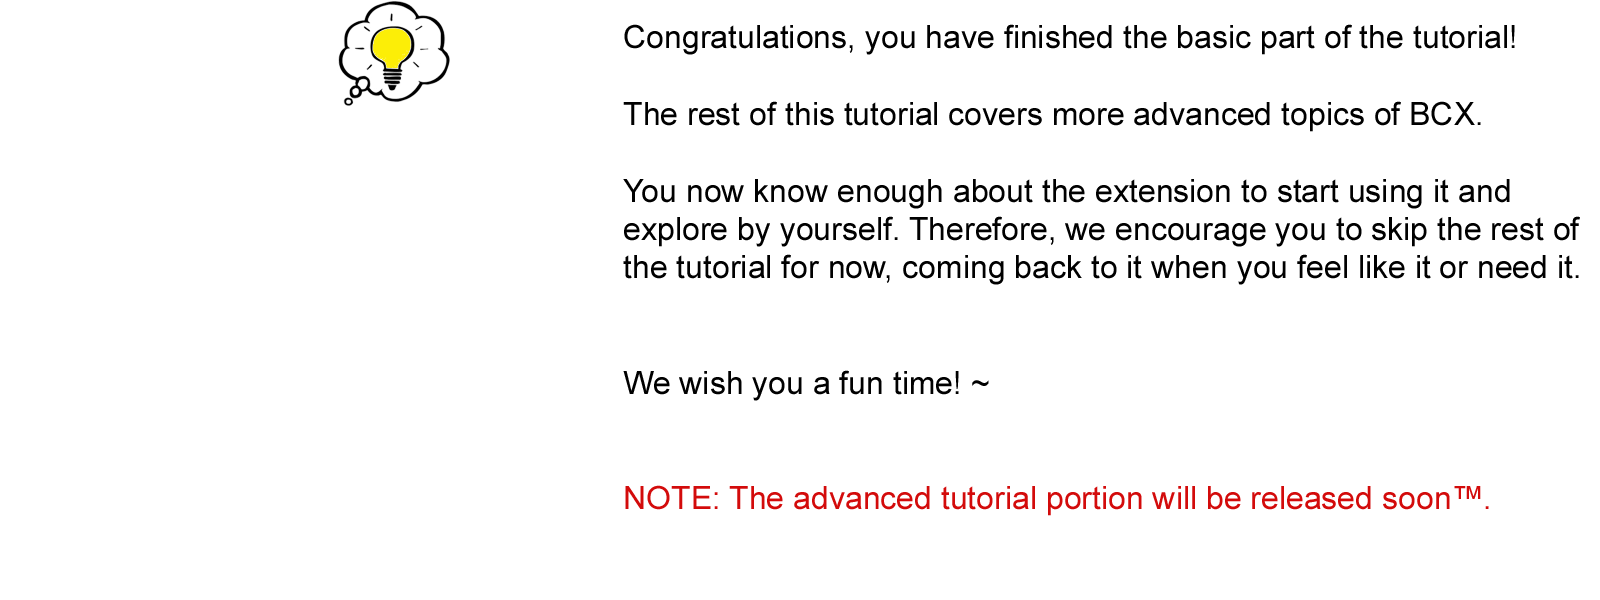
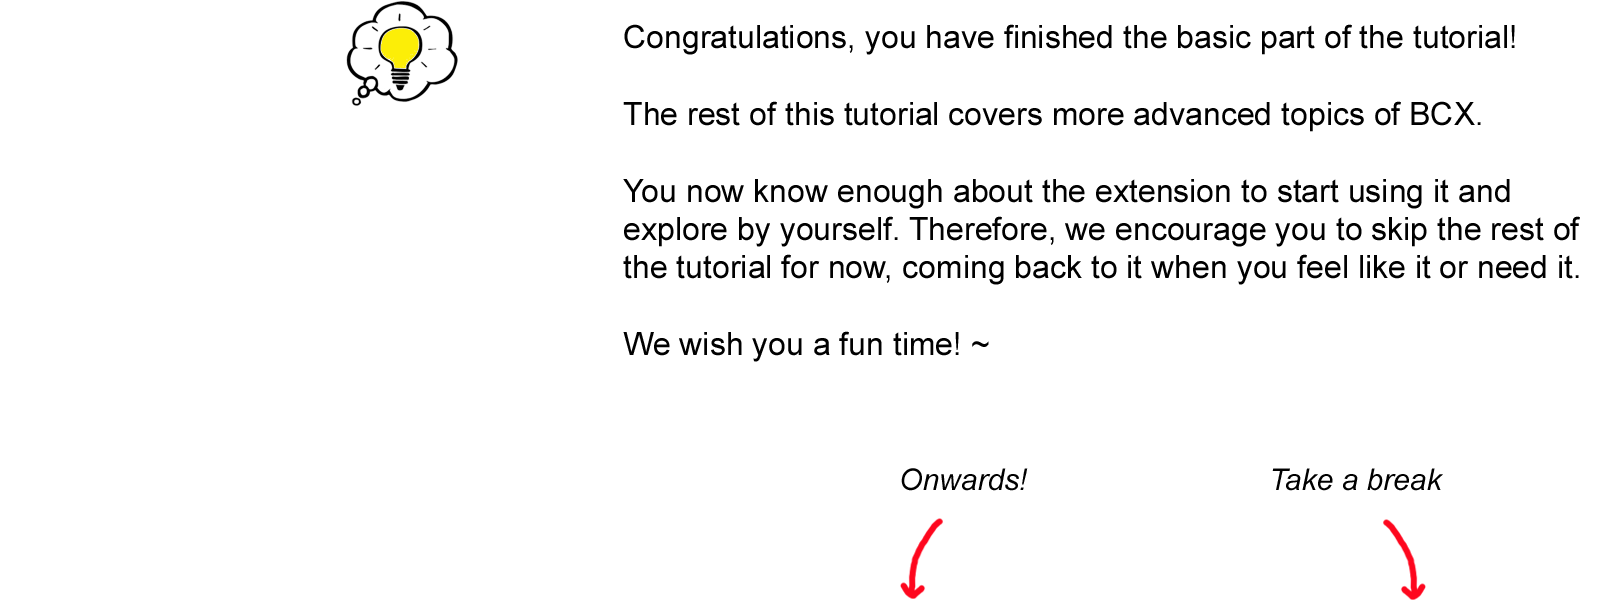
Advanced tutorial part

diff --git a/src/gui/tutorial.ts b/src/gui/tutorial.ts
@@ -53,19 +53,65 @@ const TUTORIAL_PAGES: TutorialPage[] = [
 		name: "End of introduction",
 		image: "basic_end.png",
 		afterDraw() {
-			DrawCharacter(Player, 240, 160, 0.78, true, MainCanvas);
+			DrawCharacter(Player, 220, 160, 0.78, true, MainCanvas);
 		}
+	},
+	{
+		name: "Logging module screen",
+		image: "log_part1.png"
+	},
+	{
+		name: "Logging configuration screen",
+		image: "log_part2.png"
+	},
+	{
+		name: "Curses module overview",
+		image: "curses1.png"
+	},
+	{
+		name: "Adding curses",
+		image: "curses2.png"
+	},
+	{
+		name: "Rules module overview",
+		image: "rules1.png"
+	},
+	{
+		name: "Adding a rule",
+		image: "rules2.png"
+	},
+	{
+		name: "Limiting curse slots / rules",
+		image: "limit_system.png"
+	},
+	{
+		name: "Trigger conditions",
+		image: "trigger_conditions.png"
+	},
+	{
+		name: "Permission system overview",
+		image: "permissions1.png"
+	},
+	{
+		name: "Permission system base principles",
+		image: "permissions2.png"
+	},
+	{
+		name: "General permission examples",
+		image: "permissions3.png"
+	},
+	{
+		name: "Permission setup example 1",
+		image: "permissions4.png"
+	},
+	{
+		name: "Permission setup example 2",
+		image: "permissions5.png"
+	},
+	{
+		name: "Chat commands",
+		image: "chat_commands.png"
 	}
-	// Dive into log - it exists and has levels that are configurable (normal, limited, not logged), mention of notes/good/bad girl points.
-	// Dive into curses - you can curse items, clothes and empty slots, which also curses color. You can also freeze item state (curse config) (no mention of item autoremoval)
-	// Dive into rules - lots of rules, when you click on any it will give detailed explanation of the rule, so please read more on each individual rule
-	// Limits system - Both curses and rules follow normal/limited/blocked. Rules also might start as limited/blocked and there is button to configure it
-	// Conditions trigger system and timer - ...
-	// Permissions 1 - There are roles, can be configured and how it is determined what applies for which role
-	// Permissions 2 - Self access and min access - difference
-	// Permissions 3 - Example how to use it and configure it
-	// Recap on chat commands since the interactive tutorial cannot be retriggered
-	// Afterword and thanks, mention that the best way to learn more is to ask
 ];
 
 const TUTORIAL_BASIC_END = TUTORIAL_PAGES.findIndex(i => i.name === "End of introduction");

diff --git a/src/modules/log.ts b/src/modules/log.ts
@@ -317,7 +317,7 @@ export const LOG_CONFIG_NAMES: Record<BCX_LogCategory, string> = {
 	curse_change: "Log each application, removal or change of curses",
 	curse_trigger: "Log every time a triggered curse reapplies an item",
 	rule_change: "Log each addition, removal or change of rules",
-	rule_trigger: "Log every misbehaviour detected by rules",
+	rule_trigger: "Log every rule violation",
 	authority_roles_change: "Log getting or losing a BCX owner/mistress"
 };
 
